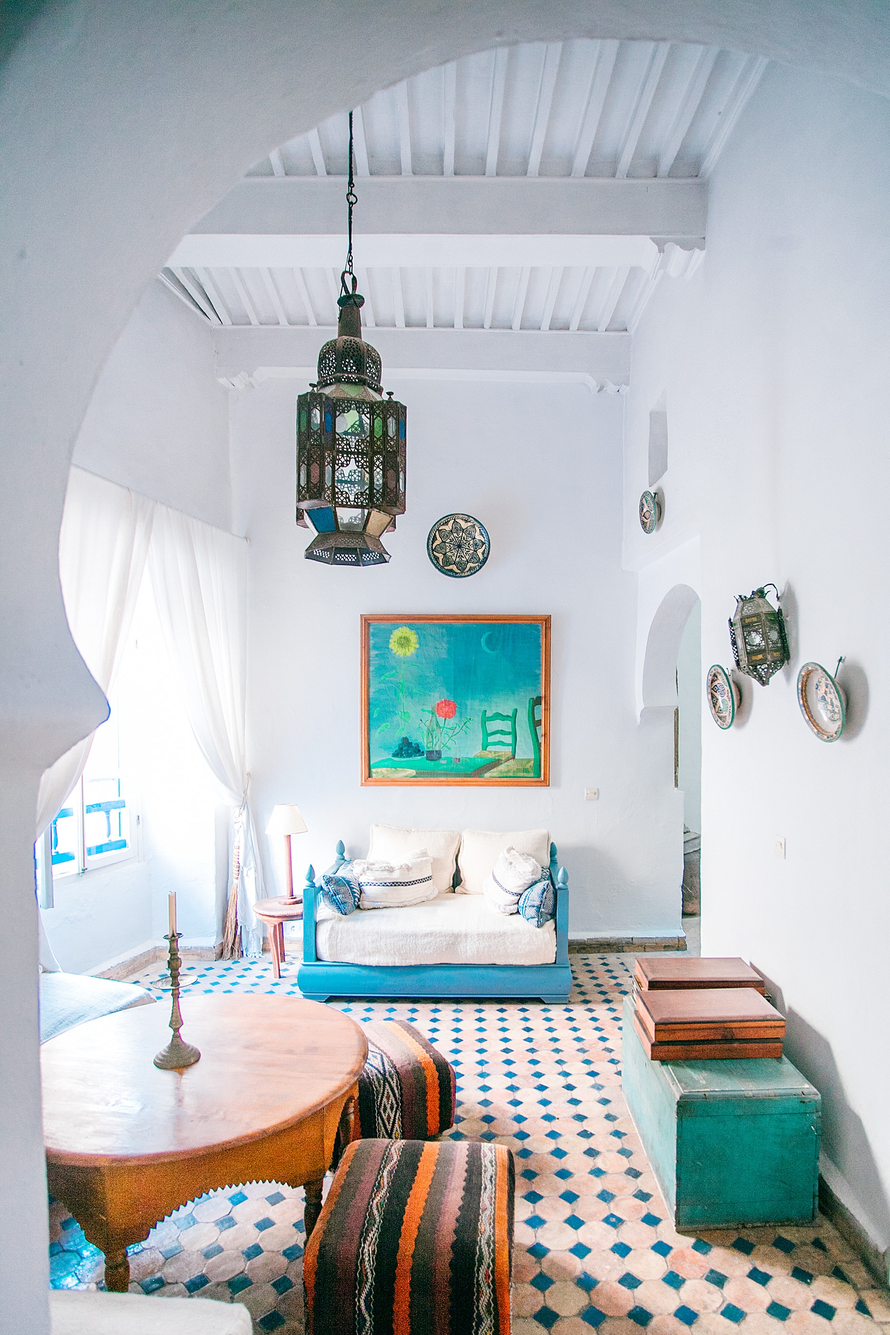
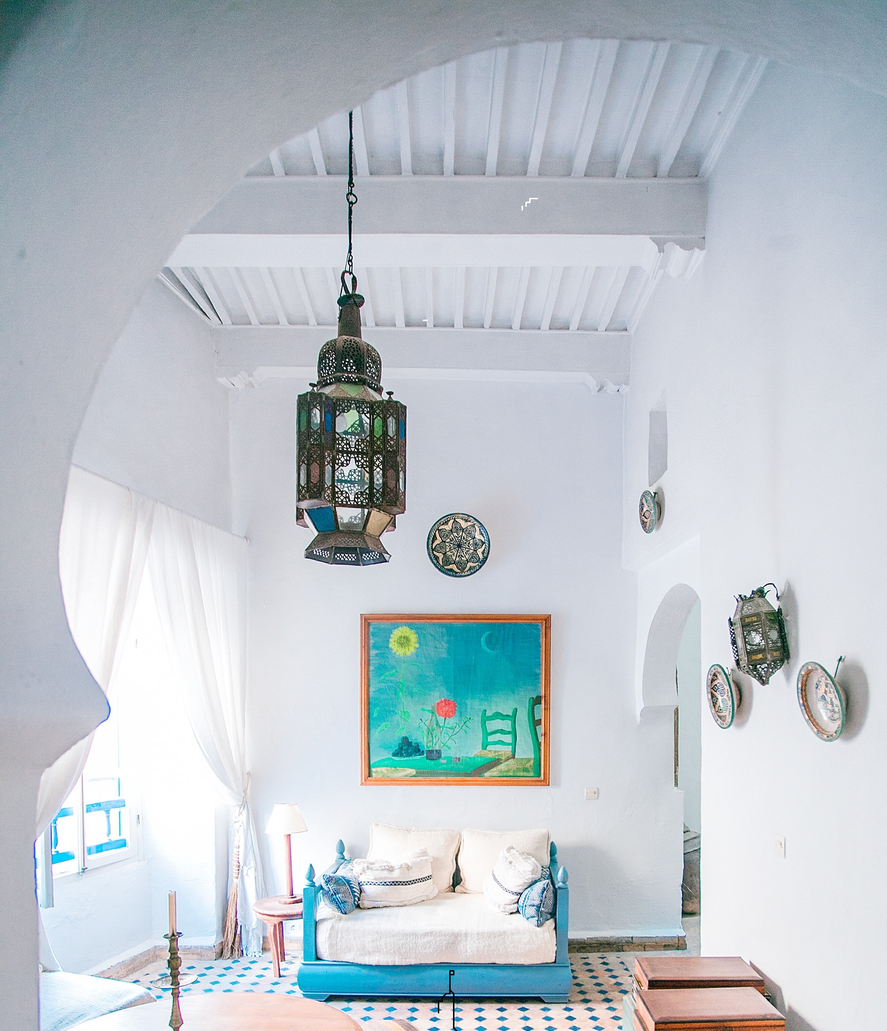
friday styling

diff --git a/html/rooms.html b/html/rooms.html
@@ -90,7 +90,7 @@
                     </div>
                     <div class="SR2">
                         <div class="SRImg">
-                            <img src="../Images/living-room.jpg" alt="a nice room">
+                            <img class="middlePic" src="../Images/living-room.jpg" alt="a nice room">
                         </div>
                         <h3>SRANDARD ROOMS</h3>
                         <p>At vero eos et accusam et justo duo dolores et ea rebum. Stet clita kasd gubergren, no sea takimata

diff --git a/Css/style.css b/Css/style.css
@@ -63,7 +63,12 @@ a[href="html/rooms.html"] div {
 }
 
 .booknow {
-    margin: 10% 50%;
+    margin: 10% 0 10% 33%;
+    display: inline-block;
+}
+
+.booknow div {
+    padding: 1em 5em;
 }
 
 /*paragraph section styling*/
@@ -117,6 +122,16 @@ a[href="html/rooms.html"] div {
     margin-left: 5%;
     margin-right: 2.5%;
 }
+
+.SR2 .SRImg {
+    height: 23%;
+    overflow: hidden;
+}
+
+/* .middlePic {
+    position: relative;
+    top: -85%;
+} */
 
 /* .standardRoomWraper div {
     
